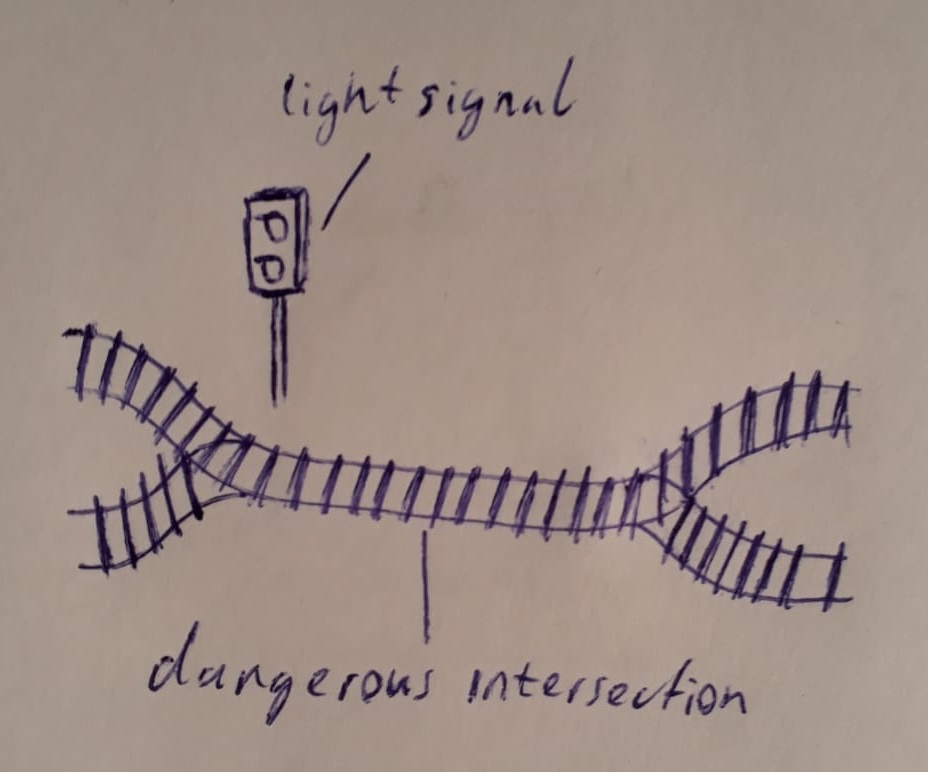
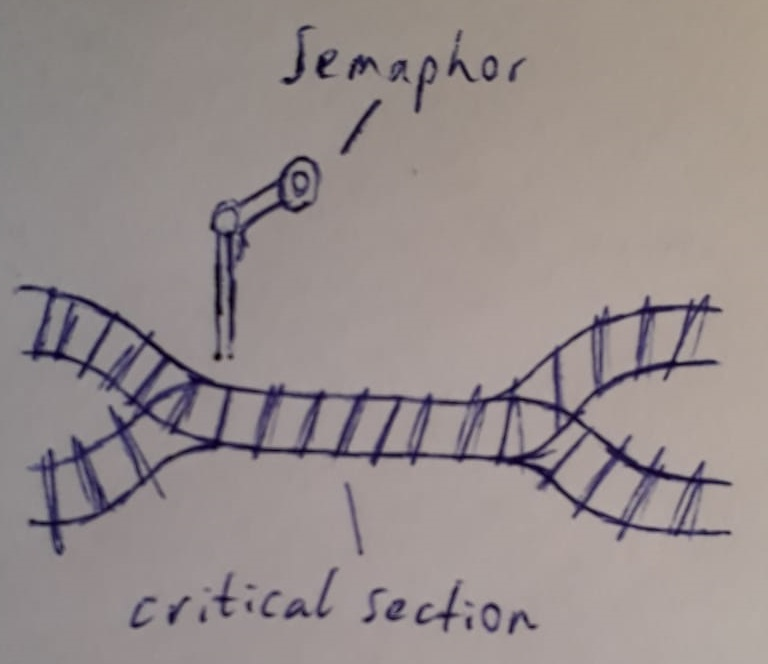
update to reflect changes

Changed region(s): [[0.0, 0.1807, 0.9688, 0.9036], [0.1562, 0.8133, 0.8125, 0.9639], [0.2812, 0.0301, 0.6875, 0.241]]

diff --git a/articles/article-058-mutex.md b/articles/article-058-mutex.md
@@ -1,13 +1,13 @@
 <!-- BEGIN TITLE -->
-# Mutex
+# Semaphores prevent crashes
 <!-- END TITLE -->
 
 <!-- BEGIN BODY -->
 Imagine a railway intersection where only one train can pass at a time. If any other train tries to pass the intersection while it's already being used, a crash happens.
 
-The same thing can happen in a computer, where we might think that all things happen ordered and sequentially. But in a world where everything is parallelized this can not be guaranteed and as soon as a file gets changed and read at the same time, things can go wrong.
+The same thing can happen in a computer. As soon as a file gets changed from two different sources at the same time, things can go wrong.
 
-Similar to a light signal for the railway intersection which would only allow one train to pass at a time, computers have something called *mutexes*. These are essentially *locks* that only ever allow one source to access a critical section, everyone else has to wait, thus preventing any unintended behavior or crashes.
+While in rail traffic this can be solved by having a *semaphore* to only ever allow one train to pass the intersection, the same is done in computers. Here, a *semaphore* only ever allows one source to access a *critical section*. Everyone else has to wait, thus preventing any unintended behavior or crashes
 <!-- END BODY -->
 
 ![Mutex](../images/image-058-mutex.jpeg)
